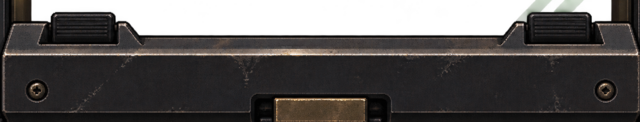
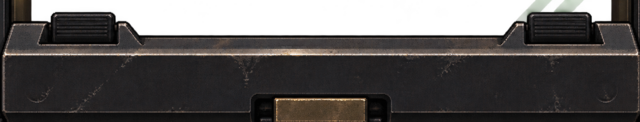
fix(looper): remove holes from cassette cradle

Changed region(s): [[0.0312, 0.6639, 0.0938, 0.8115], [0.9062, 0.6639, 0.9688, 0.8361], [0.0312, 0.8115, 0.0625, 0.8361]]

diff --git a/css/base.css b/css/base.css
@@ -1037,7 +1037,7 @@ a, .blue {
 .looper66Shell #deckPitch::-moz-range-track { width:100%;height:100%;border:0;background:transparent; }
 .looper66Shell #deckPitch::-moz-range-thumb { width:100%;height:12%;border:0;background:transparent;box-shadow:none; }
 .looper66Shell .deckAutoKey { --light-strength:0;position:absolute;left:12%;bottom:3%;width:76%;height:18%;min-width:0;min-height:0;margin:0;padding:0;border:0;outline:0;color:transparent;background:transparent;box-shadow:none;filter:none!important;-webkit-tap-highlight-color:transparent;cursor:pointer; }
-.looper66Shell .deckAutoKey::before { content:"";position:absolute;inset:4%;opacity:calc(var(--light-strength) * var(--backlight-opacity));border:1px solid rgba(255,174,48,.8);background:radial-gradient(circle,rgba(255,152,15,.34),rgba(255,152,15,.04) 70%);box-shadow:0 0 14px rgba(255,152,15,.8),inset 0 0 8px rgba(255,152,15,.28);transition:opacity .15s ease;pointer-events:none; }
+.looper66Shell .deckAutoKey::before { content:"";position:absolute;inset:4%;opacity:calc(var(--light-strength) * var(--backlight-opacity));border:0;background:radial-gradient(circle,rgba(255,152,15,.34),rgba(255,152,15,.04) 70%);box-shadow:0 0 14px rgba(255,152,15,.8),inset 0 0 8px rgba(255,152,15,.28);transition:opacity .15s ease;pointer-events:none; }
 .looper66Shell .deckAutoKey:hover { --light-strength:.3; }
 .looper66Shell .deckAutoKey[aria-pressed="true"] { --light-strength:1; }
 
@@ -1059,7 +1059,7 @@ a, .blue {
 .looper66Shell .deckLoadKey,#looper .beatCrateTransport button { --light-strength:0;position:relative;width:100%;height:100%;min-width:0;min-height:0;padding:0;border:0;outline:0;color:transparent;background:transparent;box-shadow:none;filter:none!important;-webkit-tap-highlight-color:transparent;cursor:pointer;isolation:isolate; }
 .looper66Shell .deckLoadKey strong,#looper .beatCrateTransport button > span { opacity:0; }
 .looper66Shell .deckKeyLamp { display:none; }
-.looper66Shell .deckLoadKey::before,#looper .beatCrateTransport button::before { content:"";position:absolute;z-index:0;inset:7%;opacity:calc(var(--light-strength) * var(--backlight-opacity));border:1px solid rgba(255,174,48,.78);background:radial-gradient(circle at 50% 58%,rgba(255,152,15,.38),rgba(255,152,15,.04) 70%);box-shadow:0 0 17px rgba(255,152,15,.8),inset 0 0 13px rgba(255,152,15,.28);transition:opacity .14s ease;pointer-events:none; }
+.looper66Shell .deckLoadKey::before,#looper .beatCrateTransport button::before { content:"";position:absolute;z-index:0;inset:7%;opacity:calc(var(--light-strength) * var(--backlight-opacity));border:0;background:radial-gradient(circle at 50% 58%,rgba(255,152,15,.38),rgba(255,152,15,.04) 70%);box-shadow:0 0 17px rgba(255,152,15,.8),inset 0 0 13px rgba(255,152,15,.28);transition:opacity .14s ease;pointer-events:none; }
 .looper66Shell .deckLoadKey:hover,.looper66Shell .deckLoadKey:focus-visible,#looper .beatCrateTransport button:hover,#looper .beatCrateTransport button:focus-visible { --light-strength:.35; }
 .looper66Shell .deckLoadKey:active,#looper .beatCrateTransport button:active { --light-strength:1; }
 
@@ -1067,7 +1067,7 @@ a, .blue {
 .looper66Shell .deckTransportVisual { z-index:2;background:url("../assets/looper-ui/looper66-transport.webp") center/100% 100% no-repeat;pointer-events:none; }
 .looper66Shell .deckTransport { z-index:3;display:grid;grid-template-columns:repeat(3,minmax(0,1fr)); }
 .looper66Shell .deckHotspot { --light-strength:0;position:relative;display:block;width:100%;height:100%;min-width:0;min-height:0;padding:0;overflow:hidden;border:0;outline:0;color:transparent;background:transparent;box-shadow:none;filter:none!important;-webkit-tap-highlight-color:transparent;cursor:pointer;isolation:isolate; }
-.looper66Shell .deckHotspot::before { content:"";position:absolute;z-index:0;inset:5%;opacity:calc(var(--light-strength) * var(--backlight-opacity));border:1px solid rgba(255,174,48,.78);background:radial-gradient(circle at 50% 48%,rgba(255,152,15,.38),rgba(255,152,15,.04) 70%);box-shadow:0 0 19px rgba(255,152,15,.86),inset 0 0 15px rgba(255,152,15,.3);mix-blend-mode:screen;transition:opacity .14s ease;pointer-events:none; }
+.looper66Shell .deckHotspot::before { content:"";position:absolute;z-index:0;inset:5%;opacity:calc(var(--light-strength) * var(--backlight-opacity));border:0;background:radial-gradient(circle at 50% 48%,rgba(255,152,15,.38),rgba(255,152,15,.04) 70%);box-shadow:0 0 19px rgba(255,152,15,.86),inset 0 0 15px rgba(255,152,15,.3);mix-blend-mode:screen;transition:opacity .14s ease;pointer-events:none; }
 .looper66Shell .deckHotspot:not([data-speed-level]):is(:hover,:focus-visible),.looper66Shell .deckRateHotspot[data-speed-level="0"]:is(:hover,:focus-visible) { --light-strength:.25; }
 .looper66Shell .cassetteDeck.playing #playBeat { --light-strength:1; }
 .looper66Shell .cassetteDeck:not(.playing).loaded #stopBeat { --light-strength:.25; }

diff --git a/tests/looper66_contract.py b/tests/looper66_contract.py
@@ -55,6 +55,9 @@ assert '@media (max-width:680px)' in CSS
 assert '--light-strength' in CSS and 'var(--deck-amber)' in CSS
 assert '--backlight-opacity:1' in CSS
 assert '.deckHotspot::before' in CSS and '.deckLoadKey::before' in CSS
+assert re.search(r'\.deckHotspot::before\s*\{[^}]*border:0;',CSS)
+assert re.search(r'\.deckLoadKey::before[^\{]*\{[^}]*border:0;',CSS)
+assert re.search(r'\.deckAutoKey::before\s*\{[^}]*border:0;',CSS)
 assert 'opacity:.001' not in CSS
 assert 'id="deckPitchModule"' in HTML
 assert 'pitchModule.style.setProperty("--pitch-x"' in LOOPER
@@ -72,6 +75,8 @@ assert 'animation:looper66ReelSpin var(--supply-reel-cycle)' in CSS
 assert 'animation-duration:var(--takeup-reel-cycle)' in CSS
 assert 'animation-direction:reverse' not in CSS
 assert re.search(r'\.deckHotspot\s*\{[^}]*background:transparent;[^}]*box-shadow:none;',CSS)
+assert re.search(r'\.deckReadout\s*\{[^}]*border:0;[^}]*box-shadow:none;',CSS)
+assert re.search(r'\.deckPitchModule\s*\{[^}]*border:0;[^}]*box-shadow:none;',CSS)
 assert '#looper #deckPitch:focus { outline:0!important;' in CSS
 assert 'filter:none!important;-webkit-tap-highlight-color:transparent' in CSS
 assert 'grid-template-columns:repeat(var(--rack-columns,3),calc((100% - .9%)/3))' in CSS
@@ -85,7 +90,7 @@ references={
[5 lines of base64/hex data omitted]
 }
 for name,(expected_size,expected_sha) in references.items():
     path=ROOT/'assets/looper-ui'/name

diff --git a/docs/UI_PIXEL_200826_SPEC.md b/docs/UI_PIXEL_200826_SPEC.md
@@ -22,7 +22,7 @@ Visual references committed with this contract:
 
 - `assets/looper-ui/looper66-desktop-clean-a3d35bc4.webp` (`1086 × 1009`);
 - `assets/looper-ui/looper66-mobile-clean-8a95f608.webp` (`441 × 849`);
-- `assets/looper-ui/looper66-cassette-cradle.webp` (`640 × 122`), support plein du lecteur au premier plan.
+- `assets/looper-ui/looper66-cassette-cradle.webp` (`640 × 122`), support plein du lecteur au premier plan, sans évidement ni perforation.
 
 These files are the composition, spacing, material and typography references.
 Where a reference conflicts with a behavioural requirement below, the
@@ -156,6 +156,8 @@ Do not bake any of the following into an asset:
 Assets may contain neutral dark lenses, transparent apertures and alpha masks.
 CSS owns colour, strength, blur, inner and outer glow, transitions, hover,
 focus, pressed, disabled and product-state lighting.
+Interactive HTML overlays must not draw an additional frame or outline over
+the hardware borders already present in the reference artwork.
 
 CSS lighting must independently support:
 
